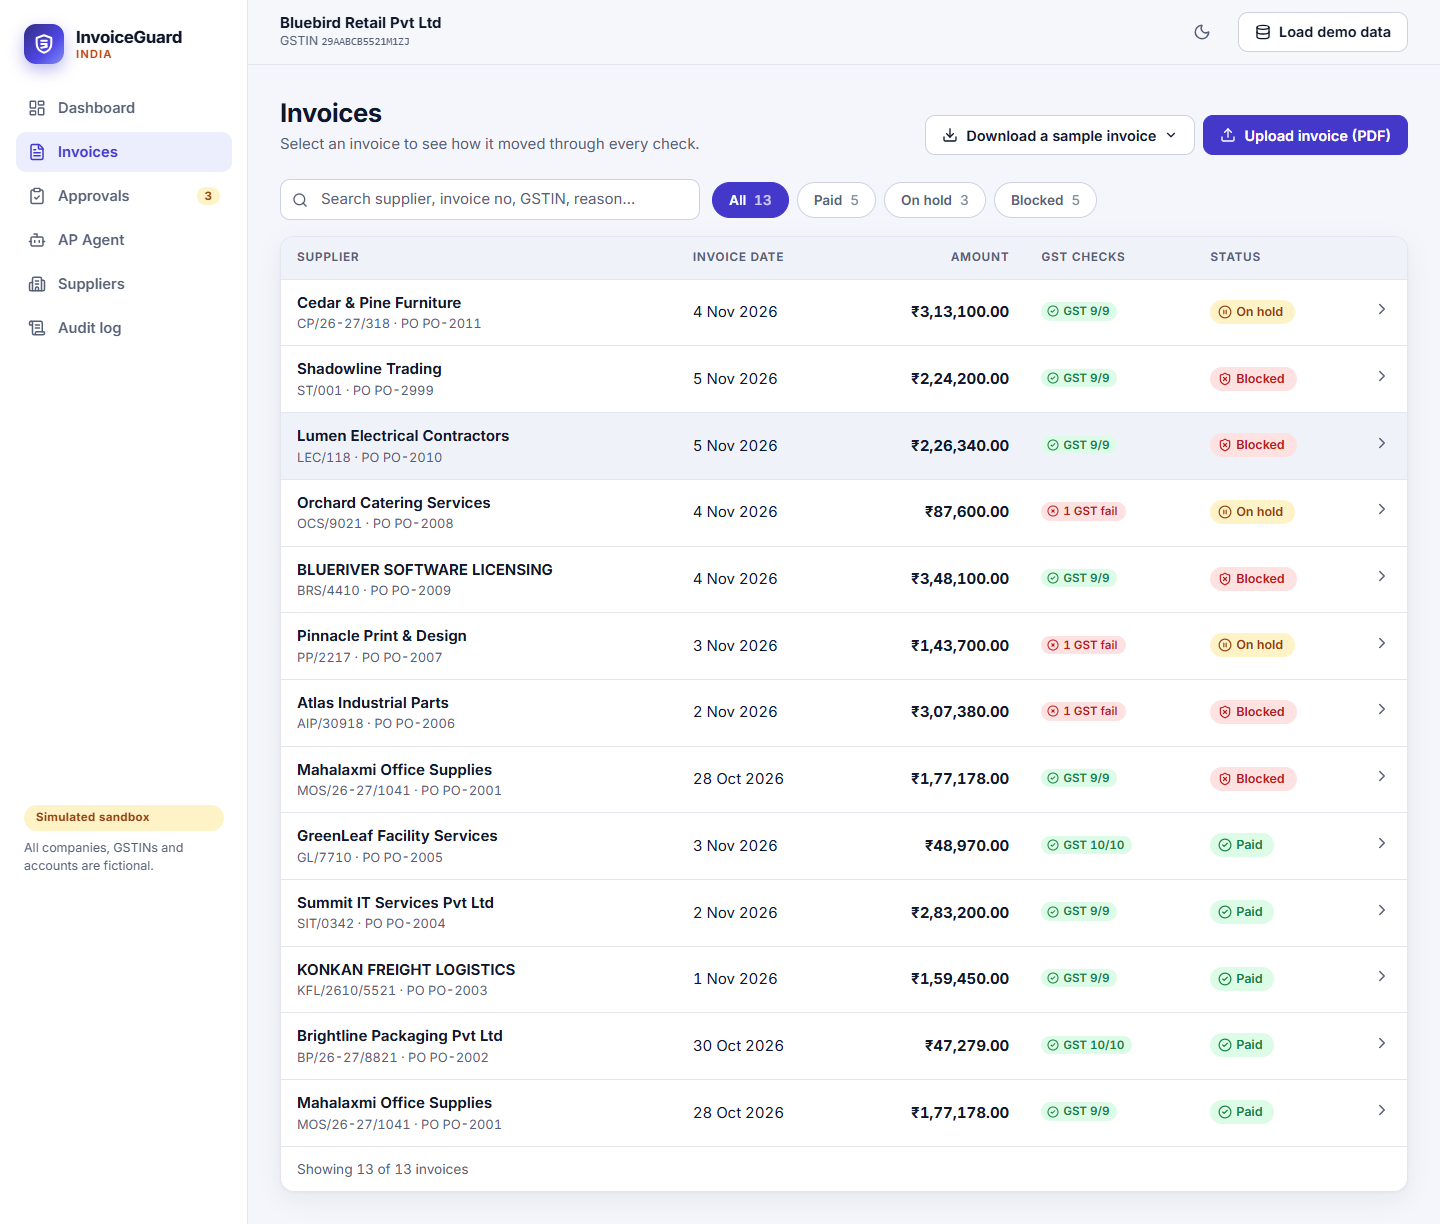
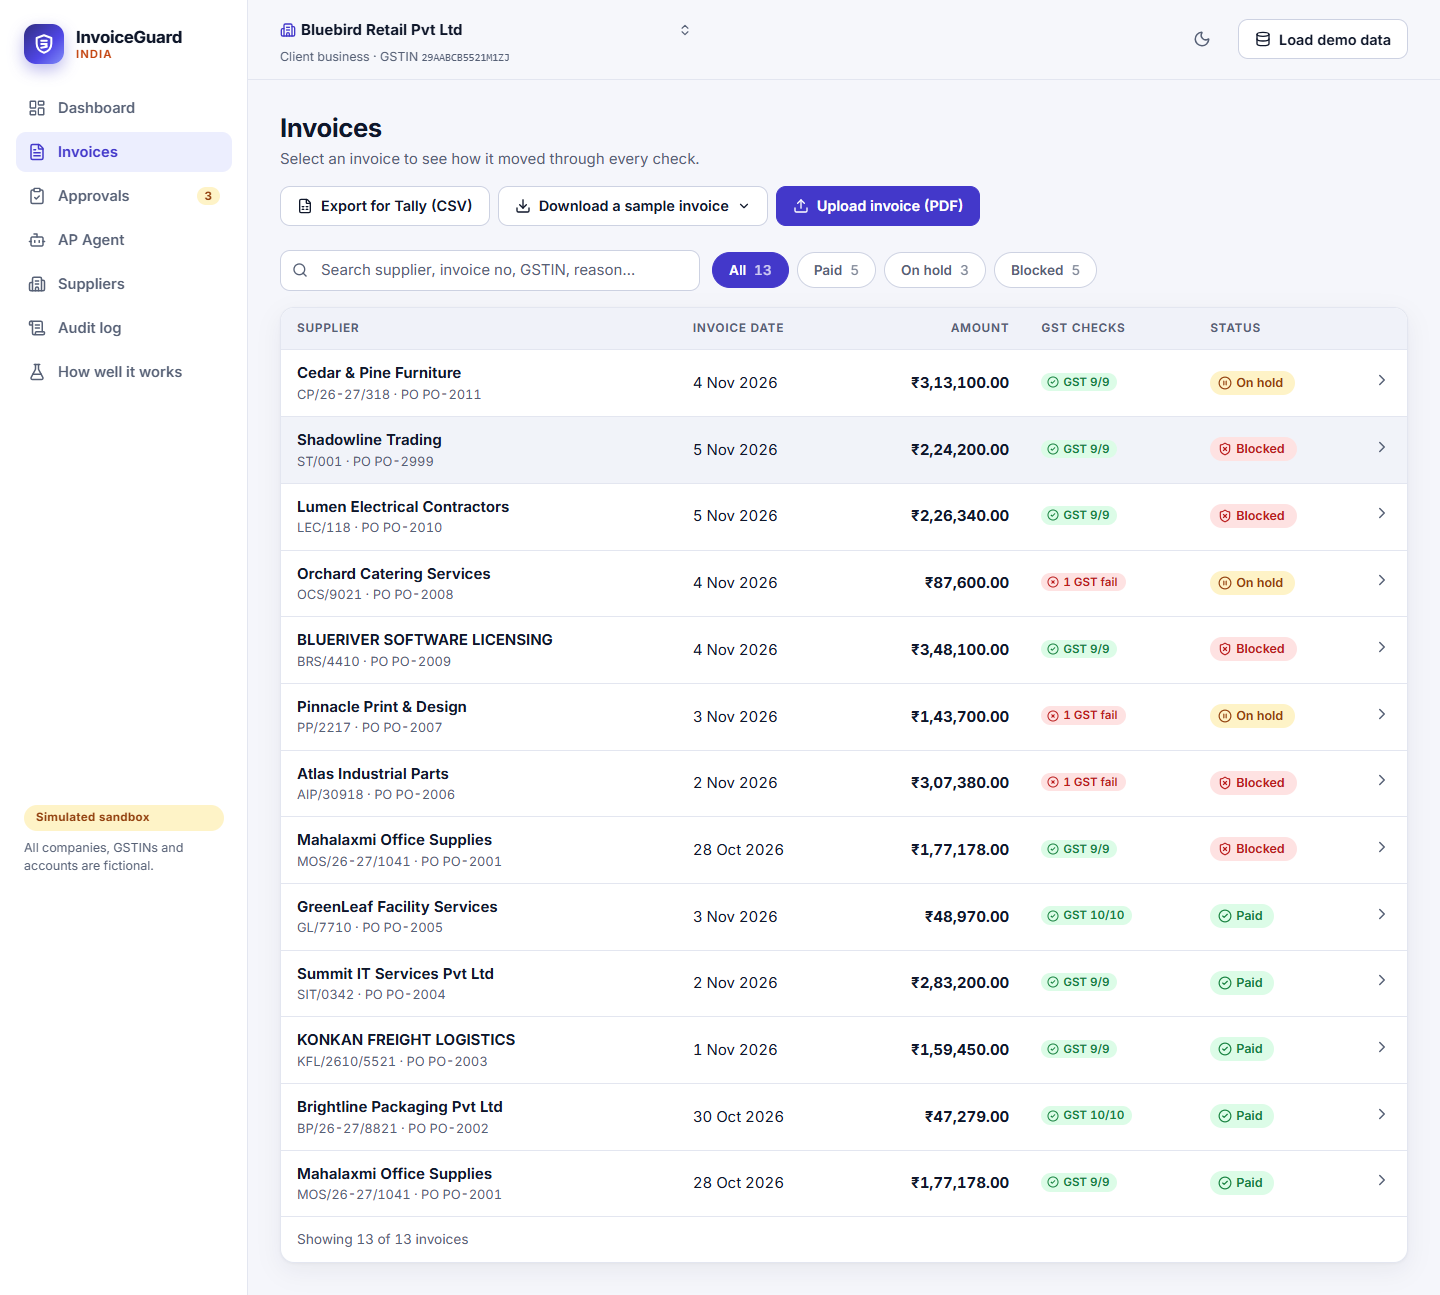
Refresh screenshots (client switcher, evaluation page) and fix switcher width

diff --git a/frontend/src/index.css b/frontend/src/index.css
@@ -406,8 +406,9 @@ table.tbl { width: 100%; border-collapse: collapse; }
 @media (max-width: 719px) { .eval-tbl td.c-date { display: block; } .eval-tbl tr { grid-template-columns: 1fr auto; } .eval-tbl td.c-gst { grid-column: 1 / -1; text-align: left; } .eval-tbl td.c-status { grid-column: 1; } .eval-tbl td.c-date { grid-column: 2; grid-row: 2; text-align: right; } }
 
 /* ---- client-business switcher (CA firms) ---- */
-.biz-pick { position: relative; display: inline-flex; align-items: center; max-width: 100%; }
-.biz-pick select { appearance: none; -webkit-appearance: none; font: inherit; font-weight: 700; color: var(--text); background: transparent; border: 1px solid transparent; border-radius: 10px; padding: 4px 28px 4px 28px; min-height: 36px; max-width: 100%; text-overflow: ellipsis; cursor: pointer; margin-left: -8px; }
+.biz { flex: 1; }
+.biz-pick { position: relative; display: flex; align-items: center; width: 100%; max-width: 420px; }
+.biz-pick select { appearance: none; -webkit-appearance: none; font: inherit; font-weight: 700; color: var(--text); background: transparent; border: 1px solid transparent; border-radius: 10px; padding: 4px 28px 4px 28px; min-height: 36px; width: 100%; text-overflow: ellipsis; cursor: pointer; margin-left: -8px; }
 .biz-pick select:hover { background: var(--surface-2); border-color: var(--border-strong); }
 .biz-pick select:focus-visible { outline: 3px solid color-mix(in srgb, var(--brand) 60%, transparent); outline-offset: 1px; }
 .biz-ico { position: absolute; left: 0; pointer-events: none; color: var(--brand); }

diff --git a/README.md b/README.md
@@ -20,6 +20,8 @@ Light theme by default (with a dark mode), desktop at 1440px and phone at 390px.
 | ![Sample invoices to download](docs/screenshots/desktop-16-sample-menu.png) **Download a sample invoice** and upload it yourself | ![AP Agent](docs/screenshots/desktop-11-agent-proposal.png) **AP Agent**: instant answer, tools used, proposal with Confirm |
 | ![Prompt injection blocked](docs/screenshots/desktop-06-drawer-injection.png) **Hidden prompt injection** stopped at the AI review | ![Suppliers](docs/screenshots/desktop-08-suppliers.png) **Suppliers**: saved GSTIN, payout details, MSME class |
 | ![Audit log](docs/screenshots/desktop-09-audit.png) **Audit log** (IST) | ![Dark mode](docs/screenshots/desktop-12-dark-dashboard.png) **Dark mode** |
+| ![Second client business](docs/screenshots/desktop-31-dashboard-kaveri.png) **Client switcher** for CA firms: Kaveri Textiles has its own GSTIN, suppliers, invoices and numbers | ![Kaveri approvals](docs/screenshots/desktop-32-approvals-kaveri.png) **Kaveri approvals**: its own MSME timers, including an overdue one |
+| ![How well it works](docs/screenshots/desktop-35-evaluation.png) **How well it works**: the evaluation on the labelled invoices, and which check caught each case | |
 
 On a phone the sidebar becomes a bottom tab bar and the table becomes cards:
 
@@ -35,6 +37,8 @@ On a phone the sidebar becomes a bottom tab bar and the table becomes cards:
   <img src="docs/screenshots/mobile-17-drawer-msme.png" width="170" alt="Mobile MSME timer">
   <img src="docs/screenshots/mobile-11-agent-proposal.png" width="170" alt="Mobile AP agent">
   <img src="docs/screenshots/mobile-12-dark-dashboard.png" width="170" alt="Mobile dark mode">
+  <img src="docs/screenshots/mobile-31-dashboard-kaveri.png" width="170" alt="Mobile second client business">
+  <img src="docs/screenshots/mobile-35-evaluation.png" width="170" alt="Mobile evaluation page">
 </p>
 
 ## The problem

diff --git a/PROGRESS.md b/PROGRESS.md
@@ -32,3 +32,4 @@ Prasunex Innovathon Round 3. Built from the original InvoiceGuard repo. Each ste
 - [x] 2. Tally-friendly CSV export of paid invoices (`exports.py`, "Export for Tally (CSV)" on Invoices): Date, Supplier, Supplier GSTIN, Invoice No, Taxable Value, CGST, SGST, IGST, Total, Payment Reference; DD-MM-YYYY dates, plain rupee amounts, UTF-8 BOM, saved supplier name/GSTIN, CSV formula-injection guard. 6 tests.
 - [x] 3. Multi-business for CA firms: `businesses` table; suppliers, invoices (and through them POs, audit, summary, ITC, daily limit, export, agent, samples) are scoped per business via the `X-Business-Id` header; invoices of another business 404; a supplier of another business is unknown; each business is checked against its own GSTIN; second client "Kaveri Textiles" (Coimbatore) with 5 suppliers, 7 demo invoices (3 valid, wrong tax type, duplicate, changed payee, partial) and 1 sample; its agent chips recorded from live Gemini; old databases are upgraded in place; top-bar switcher. 18 isolation tests (201 total).
 - [x] 4. README: "Architecture and scaling" (PostgreSQL, job queue, per-business isolation + row-level security, rate limits, audit retention, payments) and "Practical rollout" (who pays, illustrative pricing, CA-firm onboarding, what is not built); features, counts and layout updated. DEMO_SCRIPT.md rewritten for the 3-minute flow with the client switcher, Tally export and evaluation page.
+- [x] 4b. Switcher shows the full name at both widths; 28 refreshed screenshots (new: client switcher, Kaveri approvals, How well it works) linked in the README.
